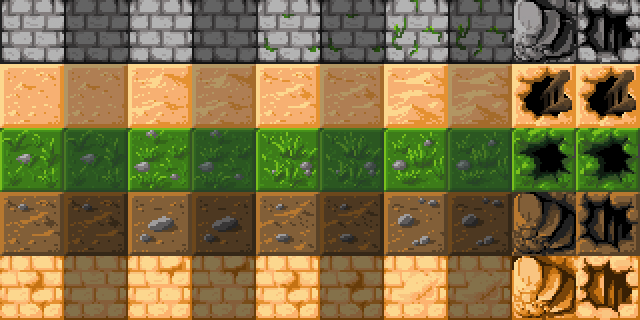
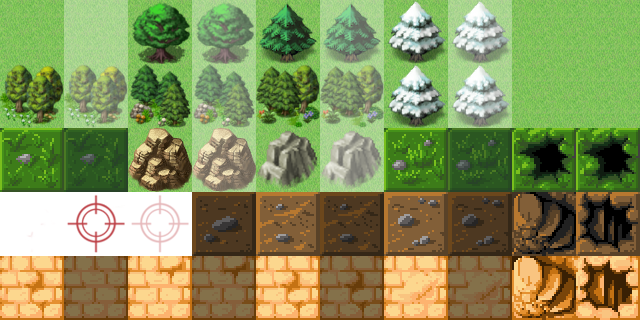
[add] new graphics

diff --git a/public/lib/create.js b/public/lib/create.js
@@ -32,14 +32,19 @@ function create() {
   game.physics.startSystem(Phaser.Physics.ARCADE);
 
   var team1 = [
-    new window.Rumble.LightSoldier({x: 0 * 64, y: 7 * 64, color: "Blue"}),
-    new window.Rumble.LightSoldier({x: 0 * 64, y: 8 * 64, color: "Blue"}),
-    new window.Rumble.LightSoldier({x: 1 * 64, y: 8 * 64, color: "Blue"}),
+    new window.Rumble.LightSoldier({x: 0 * 64, y: 7 * 64, color: "Yellow"}),
+    new window.Rumble.LightSoldier({x: 0 * 64, y: 8 * 64, color: "Yellow"}),
+    new window.Rumble.LightSoldier({x: 1 * 64, y: 8 * 64, color: "Yellow"}),
+    new window.Rumble.BazookaSoldier({x: 1 * 64, y: 6 * 64, color: "Yellow"}),
+    new window.Rumble.BazookaSoldier({x: 2 * 64, y: 8 * 64, color: "Yellow"}),
     new window.Rumble.HeavyTank({ x: 1 * 64, y: 7 * 64, color: "Yellow" })
   ];
   var team2 = [
-    new window.Rumble.HeavyTank({ x: 7 * 64, y: 1 * 64, color: "Green" }),
-    new window.Rumble.HeavyTank({ x: 8 * 64, y: 2 * 64, color: "Green" })
+    new window.Rumble.LightSoldier({ x: 7 * 64, y: 1 * 64, color: "Red"}),
+    new window.Rumble.LightSoldier({ x: 8 * 64, y: 2 * 64, color: "Red"}),
+    new window.Rumble.BazookaSoldier({ x: 8 * 64, y: 3 * 64, color: "Red"}),
+    new window.Rumble.HeavyTank({ x: 8 * 64, y: 1 * 64, color: "Red" }),
+    new window.Rumble.HeavyTank({ x: 9 * 64, y: 3 * 64, color: "Red" })
   ];
 
   game.physics.arcade.enable(team1.concat(team2).map(function(unit) { return unit.model; }), Phaser.Physics.ARCADE);

diff --git a/public/lib/preload.js b/public/lib/preload.js
@@ -1,12 +1,19 @@
 function preload() {
     game.load.bitmapFont('carrier_command', 'assets/fonts/carrier_command.png', 'assets/fonts/carrier_command.xml');
 
+    game.load.spritesheet('lightSoldierRed', 'images/lightSoldierRed.png', 64, 64);
+    game.load.spritesheet('lightSoldierYellow', 'images/lightSoldierYellow.png', 64, 64);
     game.load.spritesheet('lightSoldierBlue', 'images/lightSoldierBlue.png', 64, 64);
+
+    game.load.spritesheet('bazookaSoldierRed', 'images/bazookaSoldierRed.png', 64, 64);
+    game.load.spritesheet('bazookaSoldierYellow', 'images/bazookaSoldierYellow.png', 64, 64);
+
+    game.load.spritesheet('heavyTankRed', 'images/heavyTankRed.png', 64, 64)
+    game.load.spritesheet('heavyTankYellow', 'images/heavyTankYellow.png', 64, 64)
     game.load.spritesheet('heavyTankBlue', 'images/heavyTankBlue.png', 64, 64)
     game.load.spritesheet('heavyTankGreen', 'images/heavyTankGreen.png', 64, 64)
-    game.load.spritesheet('heavyTankYellow', 'images/heavyTankYellow.png', 64, 64)
 
-    game.load.spritesheet('tiles', 'images/tiles2.png', 64, 64);
+    game.load.spritesheet('tiles', 'images/tiles.png', 64, 64);
 
     game.load.spritesheet('button_end_turn', 'images/button_end_turn.png', 267, 85);
 

diff --git a/public/lib/table.js b/public/lib/table.js
@@ -40,10 +40,10 @@
 
   Rumble.Terrain = {
     grassland:         { default: 0, pathFinderShade: 1, type: "normal" },
-    grasslandForest1:  { default: 2, pathFinderShade: 3, type: "forest" },
-    grasslandForest2:  { default: 4, pathFinderShade: 5, type: "forest" },
-    grasslandForest3:  { default: 6, pathFinderShade: 7, type: "forest" },
-    grasslandRock:     { default: 22, pathFinderShade: 23, type: "rock" },
+    grasslandForest1:  { default: 10, pathFinderShade: 11, type: "forest" },
+    grasslandForest2:  { default: 12, pathFinderShade: 13, type: "forest" },
+    grasslandForest3:  { default: 14, pathFinderShade: 15, type: "forest" },
+    grasslandRock:     { default: 24, pathFinderShade: 25, type: "rock" },
     sight:             { default: 30, visible: 31, type: "sight" }
   };
 

diff --git a/public/lib/units/bazookaSoldier.js b/public/lib/units/bazookaSoldier.js
@@ -1,0 +1,26 @@
+(function () {
+  if (typeof Rumble === "undefined") {
+    window.Rumble = {};
+  }
+
+  var BazookaSoldier = window.Rumble.BazookaSoldier = function (args) {
+    this.type = "bazookaSoldier";
+    this.maxHp = 50;
+    this.maxDamage = 30;
+    this.movementRange = 3;
+    this.armorType = "light";
+    this.damageType = "heavy";
+    this.hp = this.maxHp;
+    this.movementType = "foot";
+
+    var newArgs = {
+      x: args.x,
+      y: args.y,
+      color: args.color
+    }
+    window.Rumble.UnitClass.call(this, newArgs);
+  };
+  window.utils.inherits(BazookaSoldier, window.Rumble.UnitClass);
+
+
+})();

diff --git a/public/lib/board.js b/public/lib/board.js
@@ -195,7 +195,7 @@
     var a = [[0,0],[0,1],[0,2],[0,7],[0,8],[1,0],[1,1],[2,0],[1,4],[2,4],[2,3],[9,2],[9,3],[8,3],[8,4],[7,5],[9,5],[8,8],[7,9],[3,7],[4,7],[4,8],[4,9],[5,8],[5,9]]
     var that = this;
     a.forEach(function(coor) {
-        that.grid[coor[0]][coor[1]].land = [land.grasslandForest1, land.grasslandForest2][utils.randomBoundBy(0, 2)];
+        that.grid[coor[0]][coor[1]].land = [land.grasslandForest1, land.grasslandForest2, land.grasslandForest3][utils.randomBoundBy(0, 3)];
     })
     // for (var i = 0; i < this.grid.length; i++) {
     //   for (var j = 0; j < this.grid[i].length; j++) {

diff --git a/public/index.html b/public/index.html
@@ -11,6 +11,7 @@
 
   <script type="text/javascript" src="lib/units/unitClass.js"></script>
   <script type="text/javascript" src="lib/units/lightSoldier.js"></script>
+  <script type="text/javascript" src="lib/units/bazookaSoldier.js"></script>
   <script type="text/javascript" src="lib/units/heavyTank.js"></script>
 
   <script type="text/javascript" src="lib/battle.js"></script>

diff --git a/public/lib/battle.js b/public/lib/battle.js
@@ -7,7 +7,7 @@
     this.turn = 1;
     this.team1 = [];
     this.team2 = [];
-    this.colors = ["Green", "Blue"]; // staring, turn 1, team's color is 'Blue'
+    this.colors = ["Red", "Yellow"]; // staring, turn 1, team's color is 'Blue'
   };
 
   Battle.prototype.start = function(team1, team2) {
